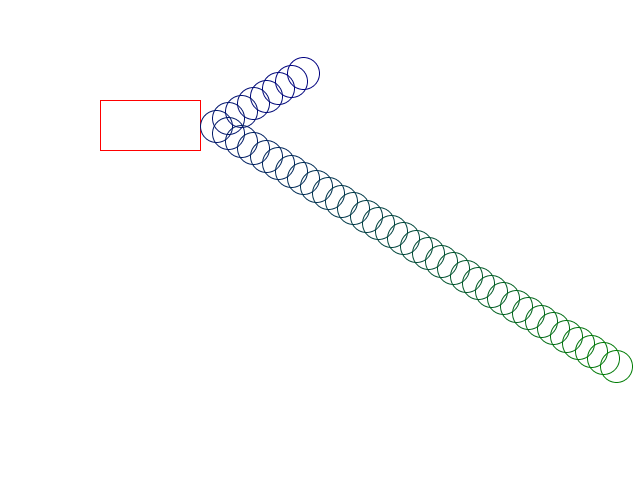
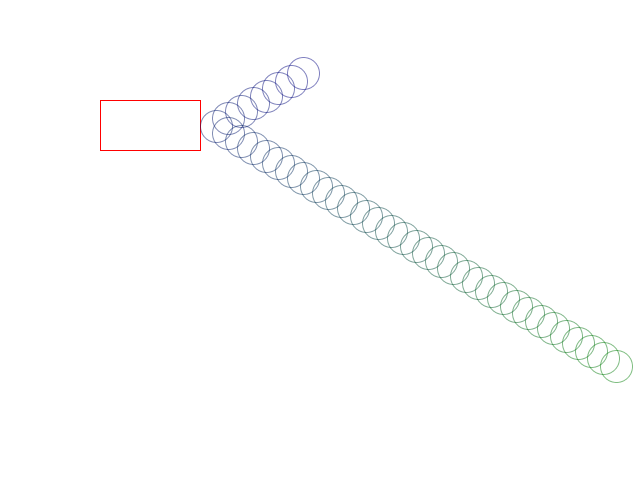
Using semitransparent circles for the ball in visual tests

Changed region(s): [[0.3125, 0.125, 0.9688, 0.7812]]

diff --git a/Ball-tests/src/com/sss/ball/tests/TestCollisionVisual.java b/Ball-tests/src/com/sss/ball/tests/TestCollisionVisual.java
@@ -86,8 +86,8 @@ public class TestCollisionVisual extends VisualTestCase {
             mBall.tick(25);
             int blue = 128 - i * 128 / 40;
             int green = i * 128 / 40;
-            int col = 0x0f000000 | blue | (green << 8);
-            g.setColor(new Color(col));
+            int col = 0x7f000000 | blue | (green << 8);
+            g.setColor(new Color(col, true));
             g.drawArc((int)mBall.getX(), (int)mBall.getY(), (int)mBall.getWidth(), (int)mBall.getHeight(), 0, 360);
         }
 
